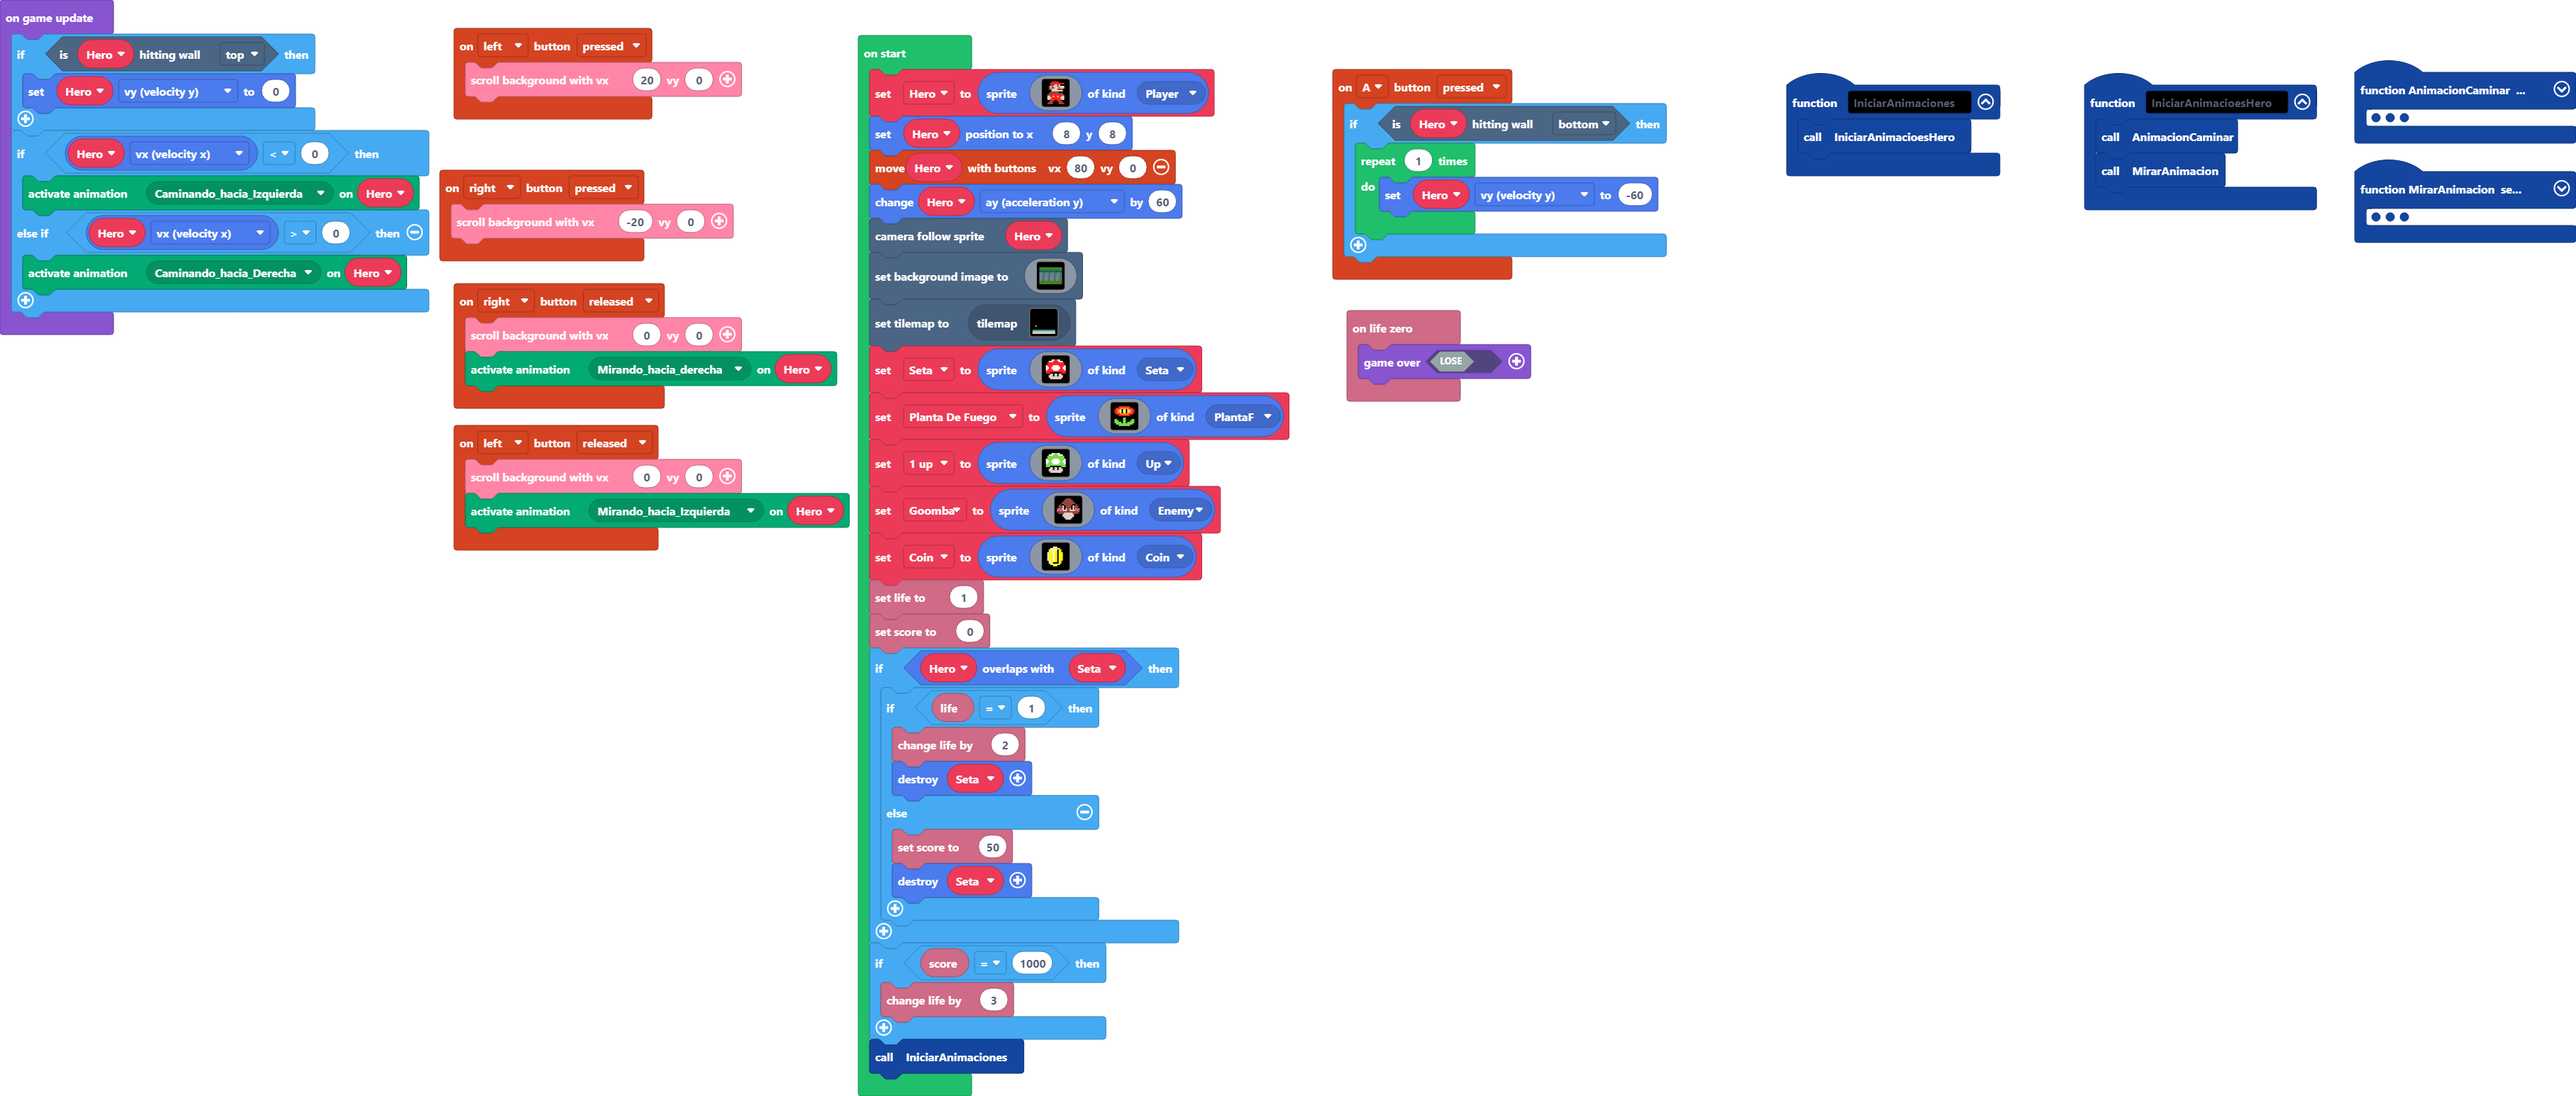
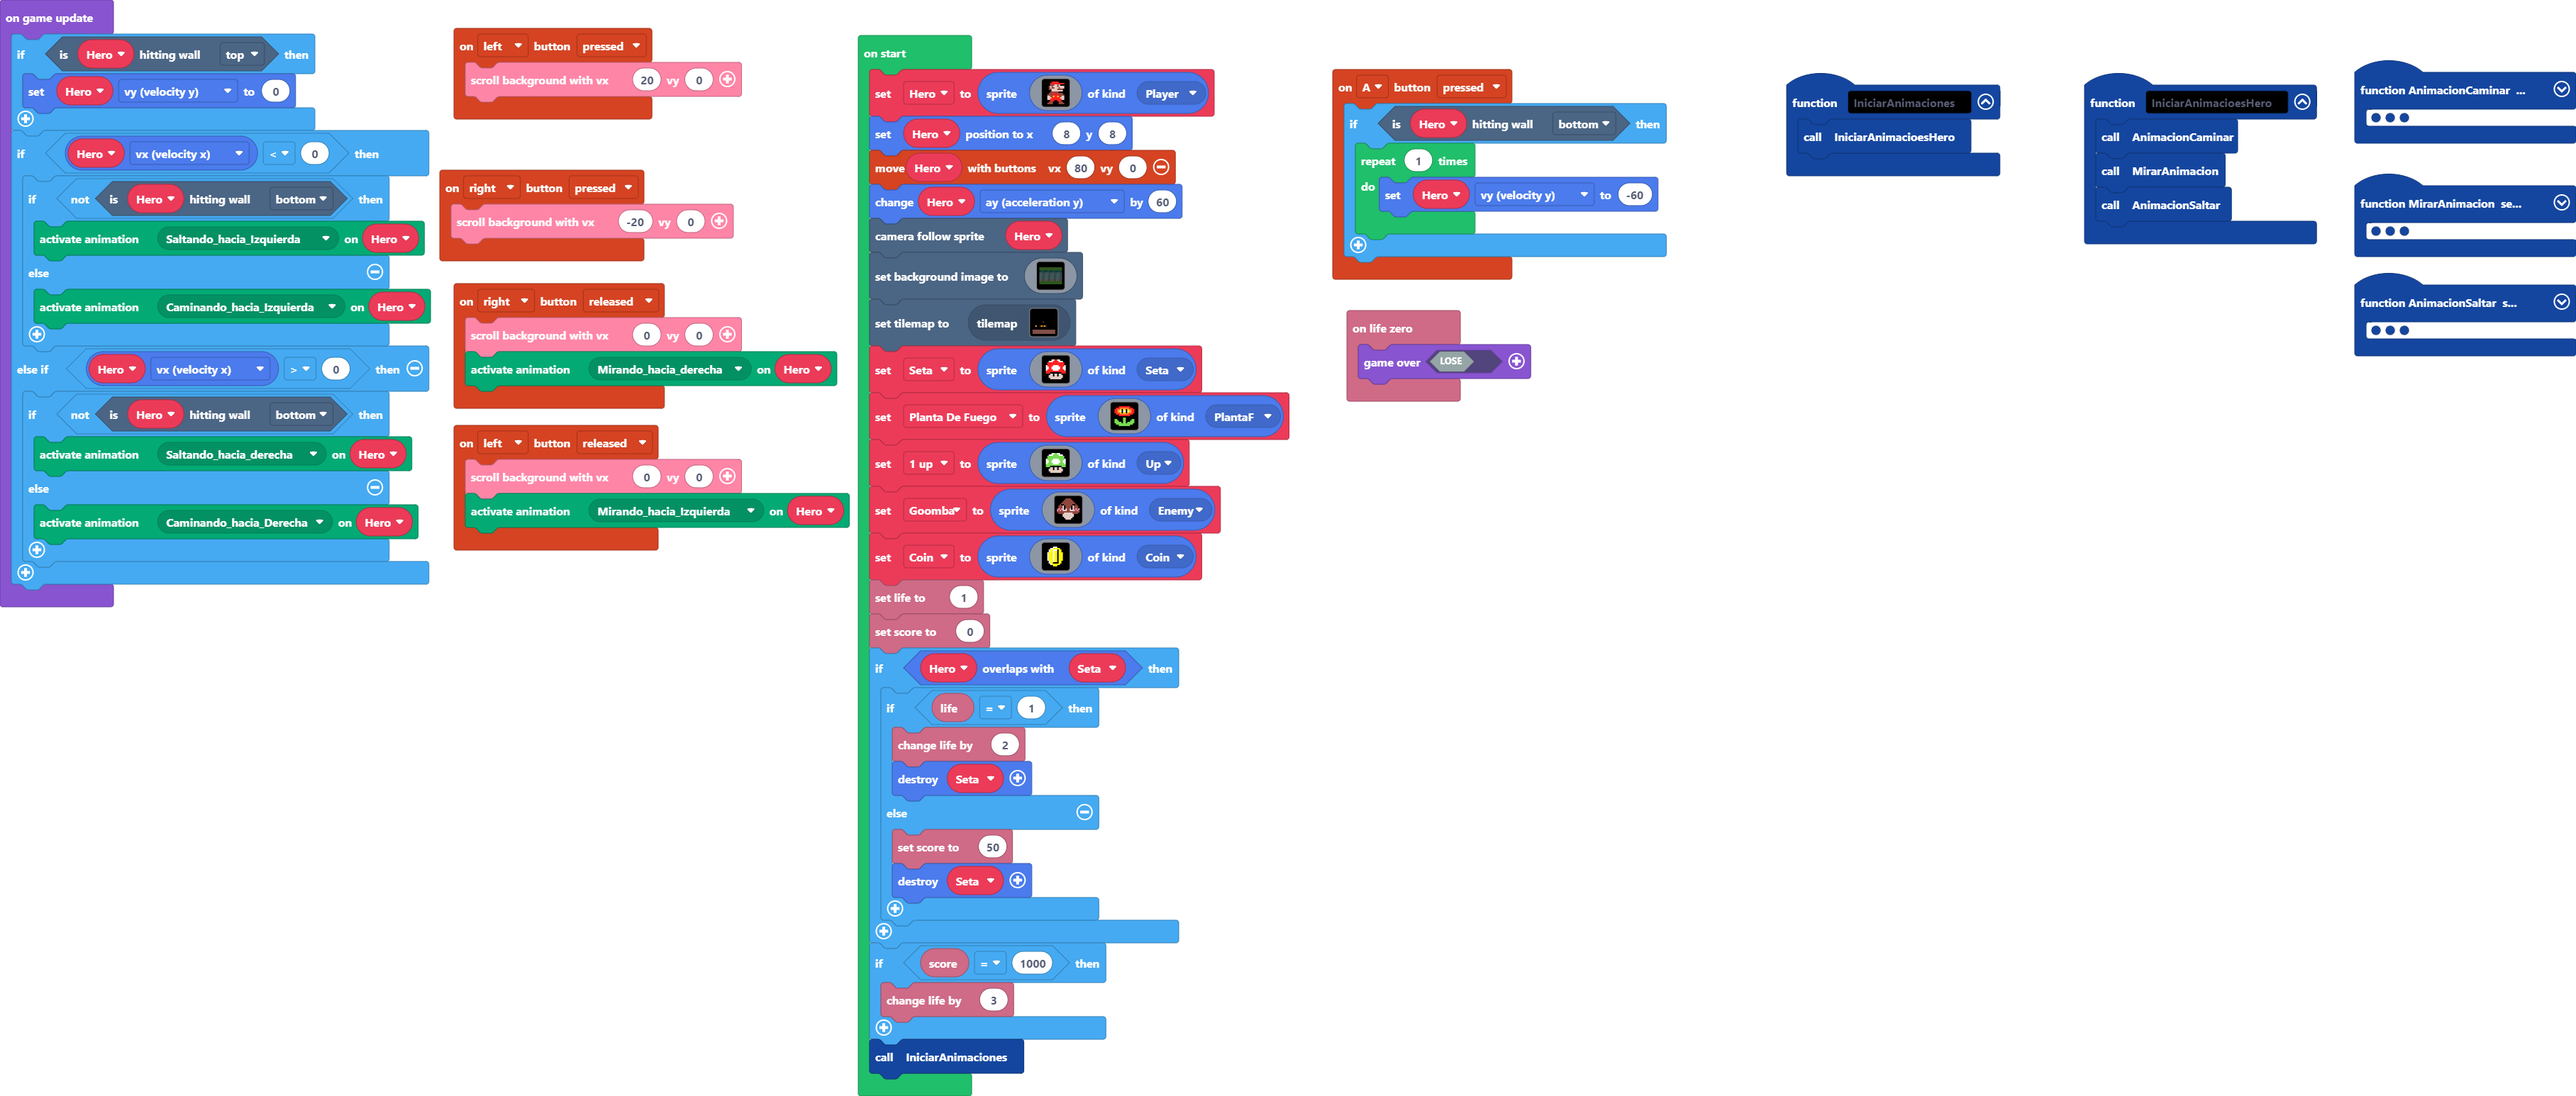
Update main.blocks, main.ts, tilemap.g.jres, tilemap.g.ts

Changed region(s): [[0.0, 0.1552, 0.1867, 0.5589], [0.8089, 0.1242, 1.0, 0.3415]]

diff --git a/main.ts b/main.ts
@@ -5,7 +5,9 @@ enum ActionKind {
     Caminando_hacia_Derecha,
     Caminando_hacia_Izquierda,
     Mirando_hacia_derecha,
-    Mirando_hacia_Izquierda
+    Mirando_hacia_Izquierda,
+    Saltando_hacia_derecha,
+    Saltando_hacia_Izquierda
 }
 namespace SpriteKind {
     export const Coin = SpriteKind.create()
@@ -15,6 +17,48 @@ namespace SpriteKind {
 }
 function IniciarAnimaciones () {
     IniciarAnimacioesHero()
+}
+function AnimacionSaltar () {
+    SaltarPaDerecha = animation.createAnimation(ActionKind.Saltando_hacia_derecha, 300)
+    animation.attachAnimation(Hero, SaltarPaDerecha)
+    SaltarPaDerecha.addAnimationFrame(img`
+        . . . . . . . . . . . . . d d d 
+        . . . . . . 2 2 2 2 2 . . d d d 
+        . . . . . 2 2 2 2 2 2 2 2 2 d d 
+        . . . . . e e e d d e d . e e e 
+        . . . . e d e d d d e d d e e e 
+        . . . . e d e e d d d e d d d e 
+        . . . . e e d d d d e e e e e . 
+        . . . . . . d d d d d d d e . . 
+        . . e e e e e 2 e e e 2 e . . . 
+        . e e e e e e e 2 e e e 2 . . e 
+        d d e e e e e e 2 2 2 2 2 . . e 
+        d d d . 2 2 e 2 2 5 2 2 5 2 e e 
+        . d . e 2 2 2 2 2 2 2 2 2 2 e e 
+        . . e e e 2 2 2 2 2 2 2 2 2 e e 
+        . e e e 2 2 2 2 2 2 2 . . . . . 
+        . e . . 2 2 2 2 . . . . . . . . 
+        `)
+    SaltandoPaIzquierda = animation.createAnimation(ActionKind.Saltando_hacia_Izquierda, 300)
+    animation.attachAnimation(Hero, SaltandoPaIzquierda)
+    SaltandoPaIzquierda.addAnimationFrame(img`
+        d d d . . . . . . . . . . . . . 
+        d d d . . 2 2 2 2 2 . . . . . . 
+        d d 2 2 2 2 2 2 2 2 2 . . . . . 
+        e e e . d e d d e e e . . . . . 
+        e e e d d e d d d e d e . . . . 
+        e d d d e d d d e e d e . . . . 
+        . e e e e e d d d d e e . . . . 
+        . . e d d d d d d d . . . . . . 
+        . . . e 2 e e e 2 e e e e e . . 
+        e . . 2 e e e 2 e e e e e e e . 
+        e . . 2 2 2 2 2 e e e e e e d d 
+        e e 2 5 2 2 5 2 2 e 2 2 . d d d 
+        e e 2 2 2 2 2 2 2 2 2 2 e . d . 
+        e e 2 2 2 2 2 2 2 2 2 e e e . . 
+        . . . . . 2 2 2 2 2 2 2 e e e . 
+        . . . . . . . . 2 2 2 2 . . e . 
+        `)
 }
 function MirarAnimacion () {
     Mirando_a_la_Derecha = animation.createAnimation(ActionKind.Mirando_hacia_derecha, 300)
@@ -71,6 +115,7 @@ controller.left.onEvent(ControllerButtonEvent.Pressed, function () {
 function IniciarAnimacioesHero () {
     AnimacionCaminar()
     MirarAnimacion()
+    AnimacionSaltar()
 }
 controller.right.onEvent(ControllerButtonEvent.Released, function () {
     scroller.scrollBackgroundWithSpeed(0, 0)
@@ -81,7 +126,7 @@ controller.left.onEvent(ControllerButtonEvent.Released, function () {
     animation.setAction(Hero, ActionKind.Mirando_hacia_Izquierda)
 })
 function AnimacionCaminar () {
-    CaminarPaIzquierda = animation.createAnimation(ActionKind.Caminando_hacia_Izquierda, 100)
+    CaminarPaIzquierda = animation.createAnimation(ActionKind.Caminando_hacia_Izquierda, 300)
     animation.attachAnimation(Hero, CaminarPaIzquierda)
     CaminarPaIzquierda.addAnimationFrame(img`
         . . . . . . 2 2 2 2 2 . . . . . 
@@ -155,7 +200,7 @@ function AnimacionCaminar () {
         . . . e e e . . . . e e e . . . 
         . . e e e e . . . . e e e e . . 
         `)
-    CaminarPaDerecha = animation.createAnimation(ActionKind.Caminando_hacia_Derecha, 100)
+    CaminarPaDerecha = animation.createAnimation(ActionKind.Caminando_hacia_Derecha, 300)
     animation.attachAnimation(Hero, CaminarPaDerecha)
     CaminarPaDerecha.addAnimationFrame(img`
         . . . . . 2 2 2 2 2 . . . . . . 
@@ -240,6 +285,8 @@ let CaminarPaDerecha: animation.Animation = null
 let CaminarPaIzquierda: animation.Animation = null
 let Mirando_hacia_Izquierda: animation.Animation = null
 let Mirando_a_la_Derecha: animation.Animation = null
+let SaltandoPaIzquierda: animation.Animation = null
+let SaltarPaDerecha: animation.Animation = null
 let Hero: Sprite = null
 Hero = sprites.create(img`
     . . . . . 2 2 2 2 2 . . . . . . 
@@ -496,8 +543,16 @@ game.onUpdate(function () {
         Hero.vy = 0
     }
     if (Hero.vx < 0) {
-        animation.setAction(Hero, ActionKind.Caminando_hacia_Izquierda)
+        if (!(Hero.isHittingTile(CollisionDirection.Bottom))) {
+            animation.setAction(Hero, ActionKind.Saltando_hacia_Izquierda)
+        } else {
+            animation.setAction(Hero, ActionKind.Caminando_hacia_Izquierda)
+        }
     } else if (Hero.vx > 0) {
-        animation.setAction(Hero, ActionKind.Caminando_hacia_Derecha)
+        if (!(Hero.isHittingTile(CollisionDirection.Bottom))) {
+            animation.setAction(Hero, ActionKind.Saltando_hacia_derecha)
+        } else {
+            animation.setAction(Hero, ActionKind.Caminando_hacia_Derecha)
+        }
     }
 })

diff --git a/tilemap.g.ts b/tilemap.g.ts
@@ -8,6 +8,14 @@ namespace myTiles {
     export const tile3 = image.ofBuffer(hex``);
     //% fixedInstance jres blockIdentity=images._tile
     export const tile1 = image.ofBuffer(hex``);
+    //% fixedInstance jres blockIdentity=images._tile
+    export const tile2 = image.ofBuffer(hex``);
+    //% fixedInstance jres blockIdentity=images._tile
+    export const tile5 = image.ofBuffer(hex``);
+    //% fixedInstance jres blockIdentity=images._tile
+    export const tile6 = image.ofBuffer(hex``);
+    //% fixedInstance jres blockIdentity=images._tile
+    export const tile7 = image.ofBuffer(hex``);
 
     helpers._registerFactory("tilemap", function(name: string) {
         switch(helpers.stringTrim(name)) {
@@ -50,7 +58,7 @@ namespace myTiles {
 . . . . . . . . . . . . . . . . 
 `, [myTiles.transparency16], TileScale.Sixteen);
             case "level3":
-            case "level3":return tiles.createTilemap(hex`1000100000000000000000000000000000000000000000000000000000000000000000000000000000000000000000000000000000000000000000000000000000000000000000000000000000000000000000000000000000000000000000000000000000000000000000000000000000000000000000000000000000000000000000000000000000000000000000000000000000000000000000000000000000000000000005000000000000000000000000000000000000000000000000000000000000000000000000000000000000000000010201010201010102010102020102020303030303030303030303030303030304040404040404040404040404040404`, img`
+            case "level3":return tiles.createTilemap(hex`1000100000000000000000000000000000000000000000000000000000000000000000000000000000000000000000000000000000000000000000000000000000000000000000000000000000000000000000000000000000000000000000000000000000000000000000000000000000000000000000000000000200000000000000000000000000000000000000000000000000000000000000000000000000000000000001000002010201020000000000000000000000000000000000000000000000000000000000000000000000000000030303030303030303030303030303030303030303030303030303030303030303030303030303030303030303030303`, img`
 . . . . . . . . . . . . . . . . 
 . . . . . . . . . . . . . . . . 
 . . . . . . . . . . . . . . . . 
@@ -58,16 +66,16 @@ namespace myTiles {
 . . . . . . . . . . . . . . . . 
 . . . . . . . . . . . . . . . . 
 . . . . . . . . . . . . . . . . 
+. . . . . . . 2 . . . . . . . . 
 . . . . . . . . . . . . . . . . 
 . . . . . . . . . . . . . . . . 
-. . . . . . . . . . . . . . . . 
-. . 2 . . . . . . . . . . . . . 
+. . 2 . . 2 2 2 2 2 . . . . . . 
 . . . . . . . . . . . . . . . . 
 . . . . . . . . . . . . . . . . 
 2 2 2 2 2 2 2 2 2 2 2 2 2 2 2 2 
 2 2 2 2 2 2 2 2 2 2 2 2 2 2 2 2 
 2 2 2 2 2 2 2 2 2 2 2 2 2 2 2 2 
-`, [myTiles.transparency16,sprites.castle.tileDarkGrass3,sprites.castle.tileDarkGrass1,myTiles.tile3,sprites.castle.tilePath5,myTiles.tile1], TileScale.Sixteen);
+`, [myTiles.transparency16,myTiles.tile1,myTiles.tile2,myTiles.tile5,myTiles.tile6,myTiles.tile7], TileScale.Sixteen);
         }
         return null;
     })
@@ -81,6 +89,14 @@ namespace myTiles {
             case "tile3":return tile3;
             case "myTile":
             case "tile1":return tile1;
+            case "myTile0":
+            case "tile2":return tile2;
+            case "myTile3":
+            case "tile5":return tile5;
+            case "myTile4":
+            case "tile6":return tile6;
+            case "myTile5":
+            case "tile7":return tile7;
         }
         return null;
     })
